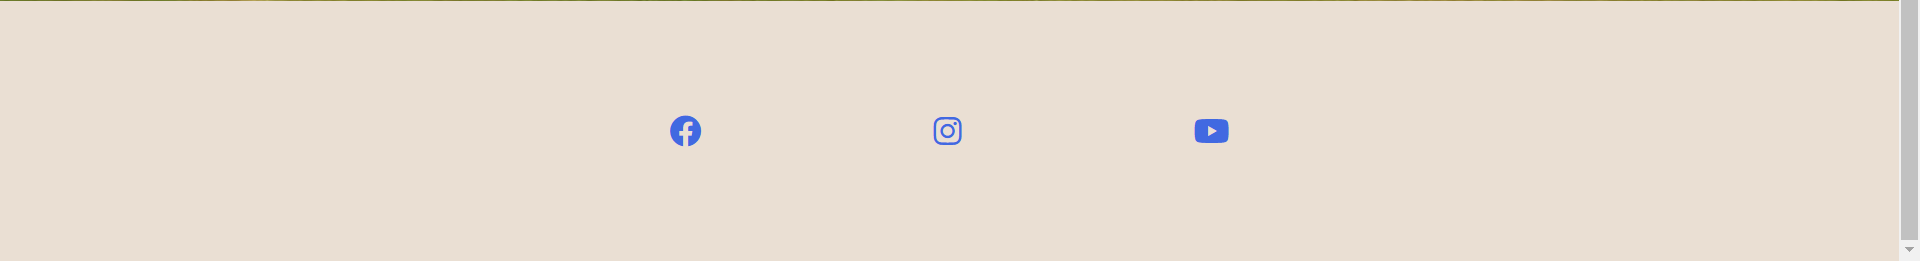
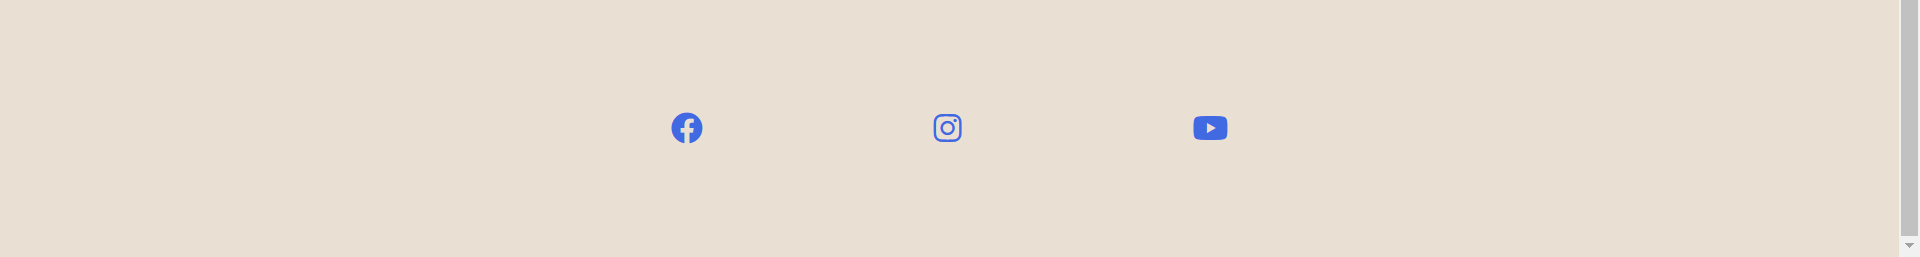
my project is finished now.

diff --git a/contact.html b/contact.html
@@ -71,23 +71,29 @@
             </form>
         </div>
     </section>
-    <footer>
-        <ul class="social-networks">
-            <li>
-                <a href="https://facebook.com" target="_blank" rel="noopener"
-                    aria-label="Visit our Facebook page (opens in a new tab)"><i class="fa-brands fa-facebook"></i></a>
-            </li>
-            <li>
-                <a href="https://instagram.com" target="_blank" rel="noopener"
-                    aria-label="Visit our Instagram page (opens in a new tab)"><i
-                        class="fa-brands fa-instagram"></i></a>
-            </li>
-            <li>
-                <a href="https://youtube.com" target="_blank" rel="noopener"
-                    aria-label="Visit our YouTube page (opens in a new tab)"><i class="fa-brands fa-youtube"></i></a>
-            </li>
-        </ul>
-    </footer>
+        <footer class="cont">
+            <div class="row">
+                <div class="col-100">
+                    <ul class="social-networks">
+                        <li>
+                            <a href="https://facebook.com" target="_blank" rel="noopener"
+                                aria-label="Visit our Facebook page (opens in a new tab)"><i
+                                    class="fa-brands fa-facebook"></i></a>
+                        </li>
+                        <li>
+                            <a href="https://instagram.com" target="_blank" rel="noopener"
+                                aria-label="Visit our Instagram page (opens in a new tab)"><i
+                                    class="fa-brands fa-instagram"></i></a>
+                        </li>
+                        <li>
+                            <a href="https://youtube.com" target="_blank" rel="noopener"
+                                aria-label="Visit our YouTube page (opens in a new tab)"><i
+                                    class="fa-brands fa-youtube"></i></a>
+                        </li>
+                    </ul>
+                </div>
+            </div>
+        </footer>
 
     <!-- font awesome script for Lytham History project -->
     <script src="https://kit.fontawesome.com/3d43e22fd8.js" crossorigin="anonymous"></script>

diff --git a/index.html b/index.html
@@ -39,23 +39,30 @@
             </div>    
         </div>
     </section>
-    <footer>
-        <ul class="social-networks">
-            <li>
-                <a href="https://facebook.com" target="_blank" rel="noopener" 
-                    aria-label="Visit our Facebook page (opens in a new tab)"><i class="fa-brands fa-facebook"></i></a>
-            </li>
-            <li>
-                <a href="https://instagram.com" target="_blank" rel="noopener"
-                    aria-label="Visit our Instagram page (opens in a new tab)"><i class="fa-brands fa-instagram"></i></a>
-            </li>
-            <li>
-                <a href="https://youtube.com" target="_blank" rel="noopener"
-                    aria-label="Visit our YouTube page (opens in a new tab)"><i class="fa-brands fa-youtube"></i></a>
-            </li>
-        </ul>
+    <footer class="cont">
+        <div class="row">
+            <div class="col-100">
+                <ul class="social-networks">
+                    <li>
+                        <a href="https://facebook.com" target="_blank" rel="noopener"
+                            aria-label="Visit our Facebook page (opens in a new tab)"><i
+                                class="fa-brands fa-facebook"></i></a>
+                    </li>
+                    <li>
+                        <a href="https://instagram.com" target="_blank" rel="noopener"
+                            aria-label="Visit our Instagram page (opens in a new tab)"><i
+                                class="fa-brands fa-instagram"></i></a>
+                    </li>
+                    <li>
+                        <a href="https://youtube.com" target="_blank" rel="noopener"
+                            aria-label="Visit our YouTube page (opens in a new tab)"><i
+                                class="fa-brands fa-youtube"></i></a>
+                    </li>
+                </ul>
+            </div>
+        </div>
     </footer>
-
+    
     <!-- font awesome script for Lytham History project -->
     <script src="https://kit.fontawesome.com/3d43e22fd8.js" crossorigin="anonymous"></script>
 </body>

diff --git a/README.md b/README.md
@@ -107,10 +107,12 @@ rgba(255, 255, 255, 0.6)
 * Home-Page: I have added my personal image to the home page to introduce myself as a local resident in Lytham for over 20 years.
 * History-Page: I have put 4 different images in the history page to introduce them about the history of Lytham.
 * Contact-Form: I have included the contact form to allow users to contact me.
+* Footer: I have added the three different social medias on the footer on Home, History and Contact
 
 ![Home Page](assets/docs/Homepage.png)
 ![History Page](assets/docs/Historypage.png)
 ![Contact Page](assets/docs/contactform.png)
+![Footer](assets/docs/Footer.png)
 
 ## **Future-Enhancements**
 
@@ -127,7 +129,7 @@ Here are these results:-
 
 ## **Bugs**
 
-When I tested my website, there are a bug .
+When I tested my website, there are a bug which cause the home page being not responsive, so I have managed to fix this bug by changing the media queries in CSS.
 
 ## **Deployment**
 I deployed the page on GitHub pages via the following procedure: -
